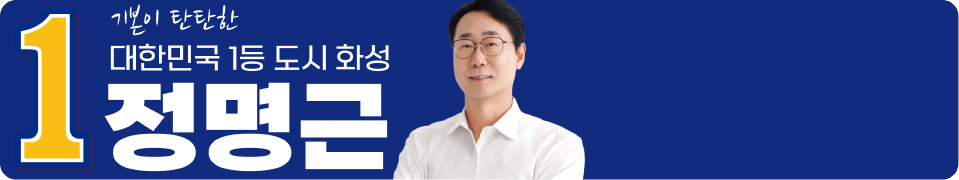
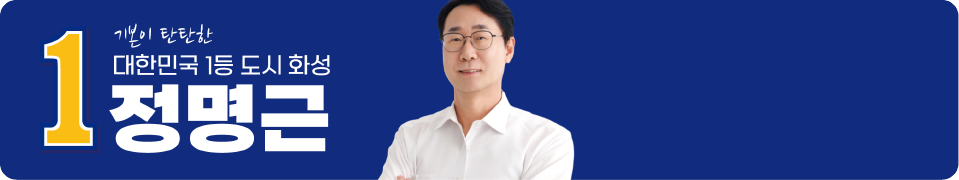
chore: 모바일 프로필 이미지 교체 및 PC 로고 크기 조정
- jmg-profile-horizontal.png 재업로드 (959x180 유지, 내용 갱신)
- 캐시버스터 ?v=2 → ?v=3
- PC(lg) 로고 높이 80px → 70px

Changed region(s): [[0.0, 0.0, 0.5746, 1.0], [0.5141, 0.7222, 0.9677, 1.0], [0.5746, 0.6667, 0.6048, 0.6944]]

diff --git a/src/components/main/ProfileBanner.tsx b/src/components/main/ProfileBanner.tsx
@@ -14,7 +14,7 @@ export default function ProfileBanner() {
       <div className="relative">
         {/* eslint-disable-next-line @next/next/no-img-element */}
         <img
-          src={`${basePath}/images/jmg-profile-horizontal.png?v=2`}
+          src={`${basePath}/images/jmg-profile-horizontal.png?v=3`}
           alt="정명근 · 대한민국 1등 도시 화성"
           className="block w-full h-auto"
         />

diff --git a/src/components/shared/Navbar.tsx b/src/components/shared/Navbar.tsx
@@ -37,7 +37,7 @@ export default function Navbar() {
             <img
               src={`${process.env.NEXT_PUBLIC_BASE_PATH || ''}/images/jmg-logo.png?v=2`}
               alt="정명근 · 대한민국 1등 도시 화성"
-              className="w-auto object-contain h-14 sm:h-16 lg:h-20"
+              className="w-auto object-contain h-14 sm:h-16 lg:h-[70px]"
             />
           </Link>
 
